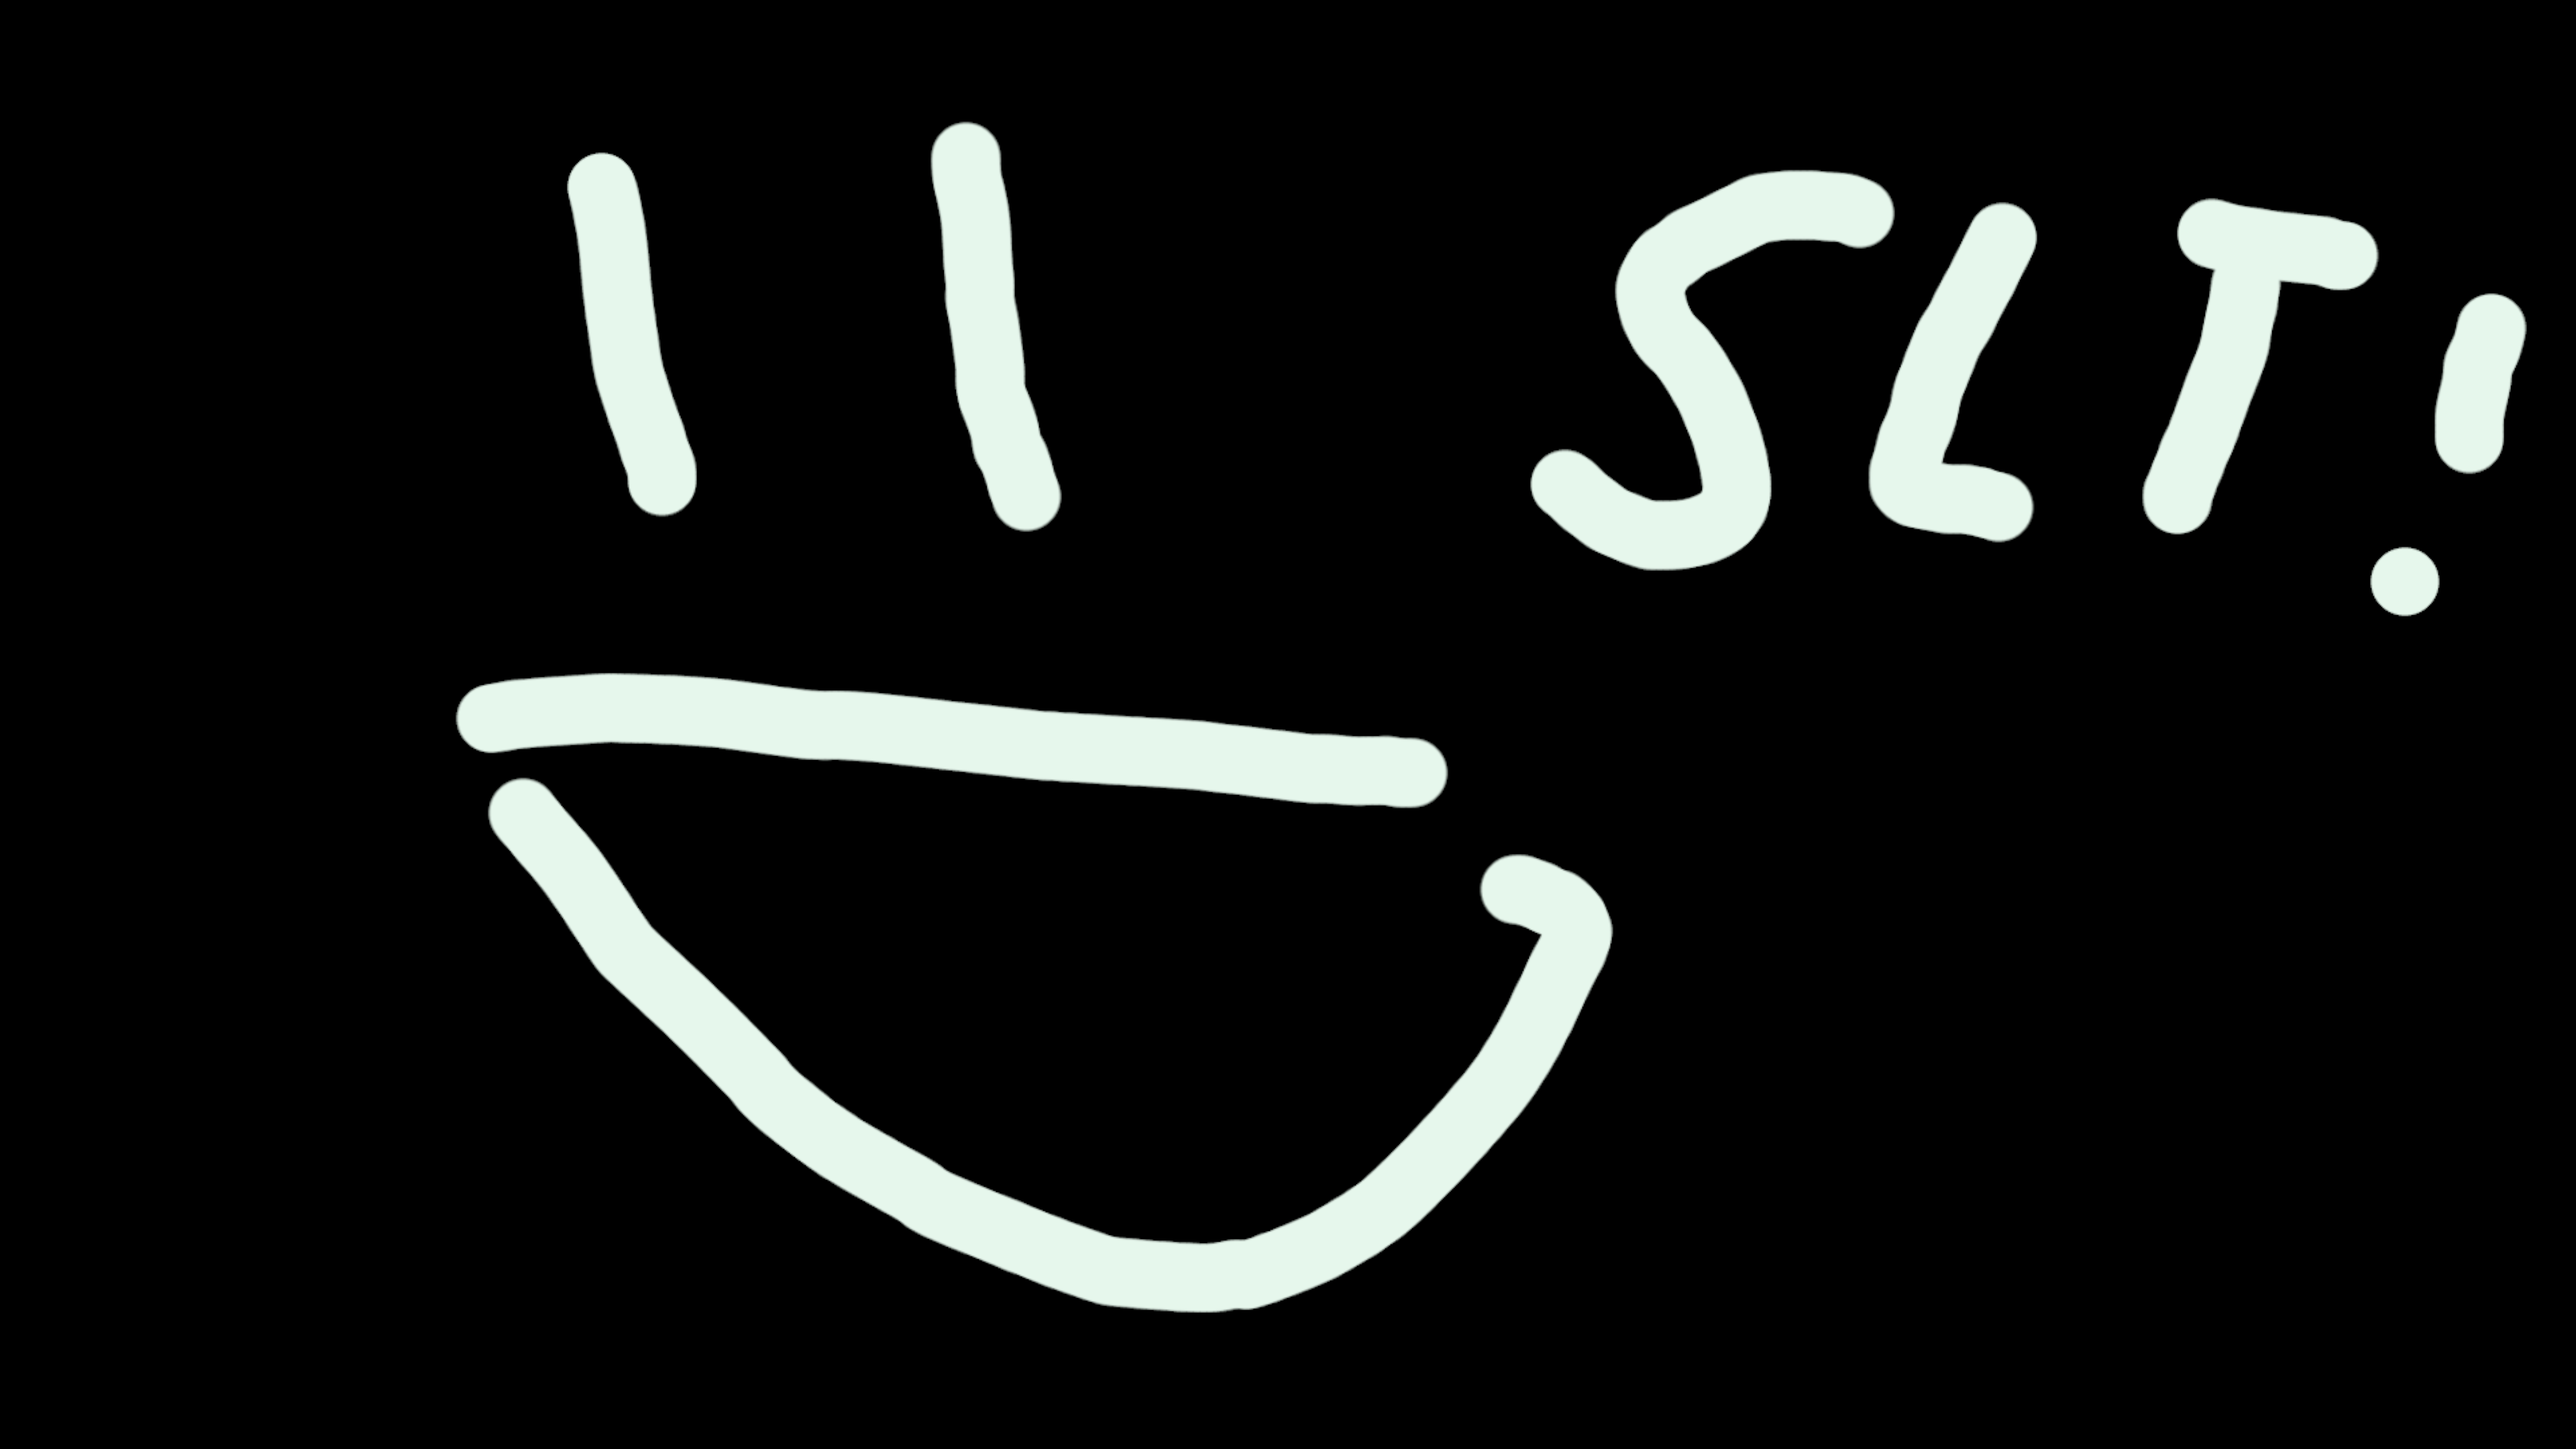
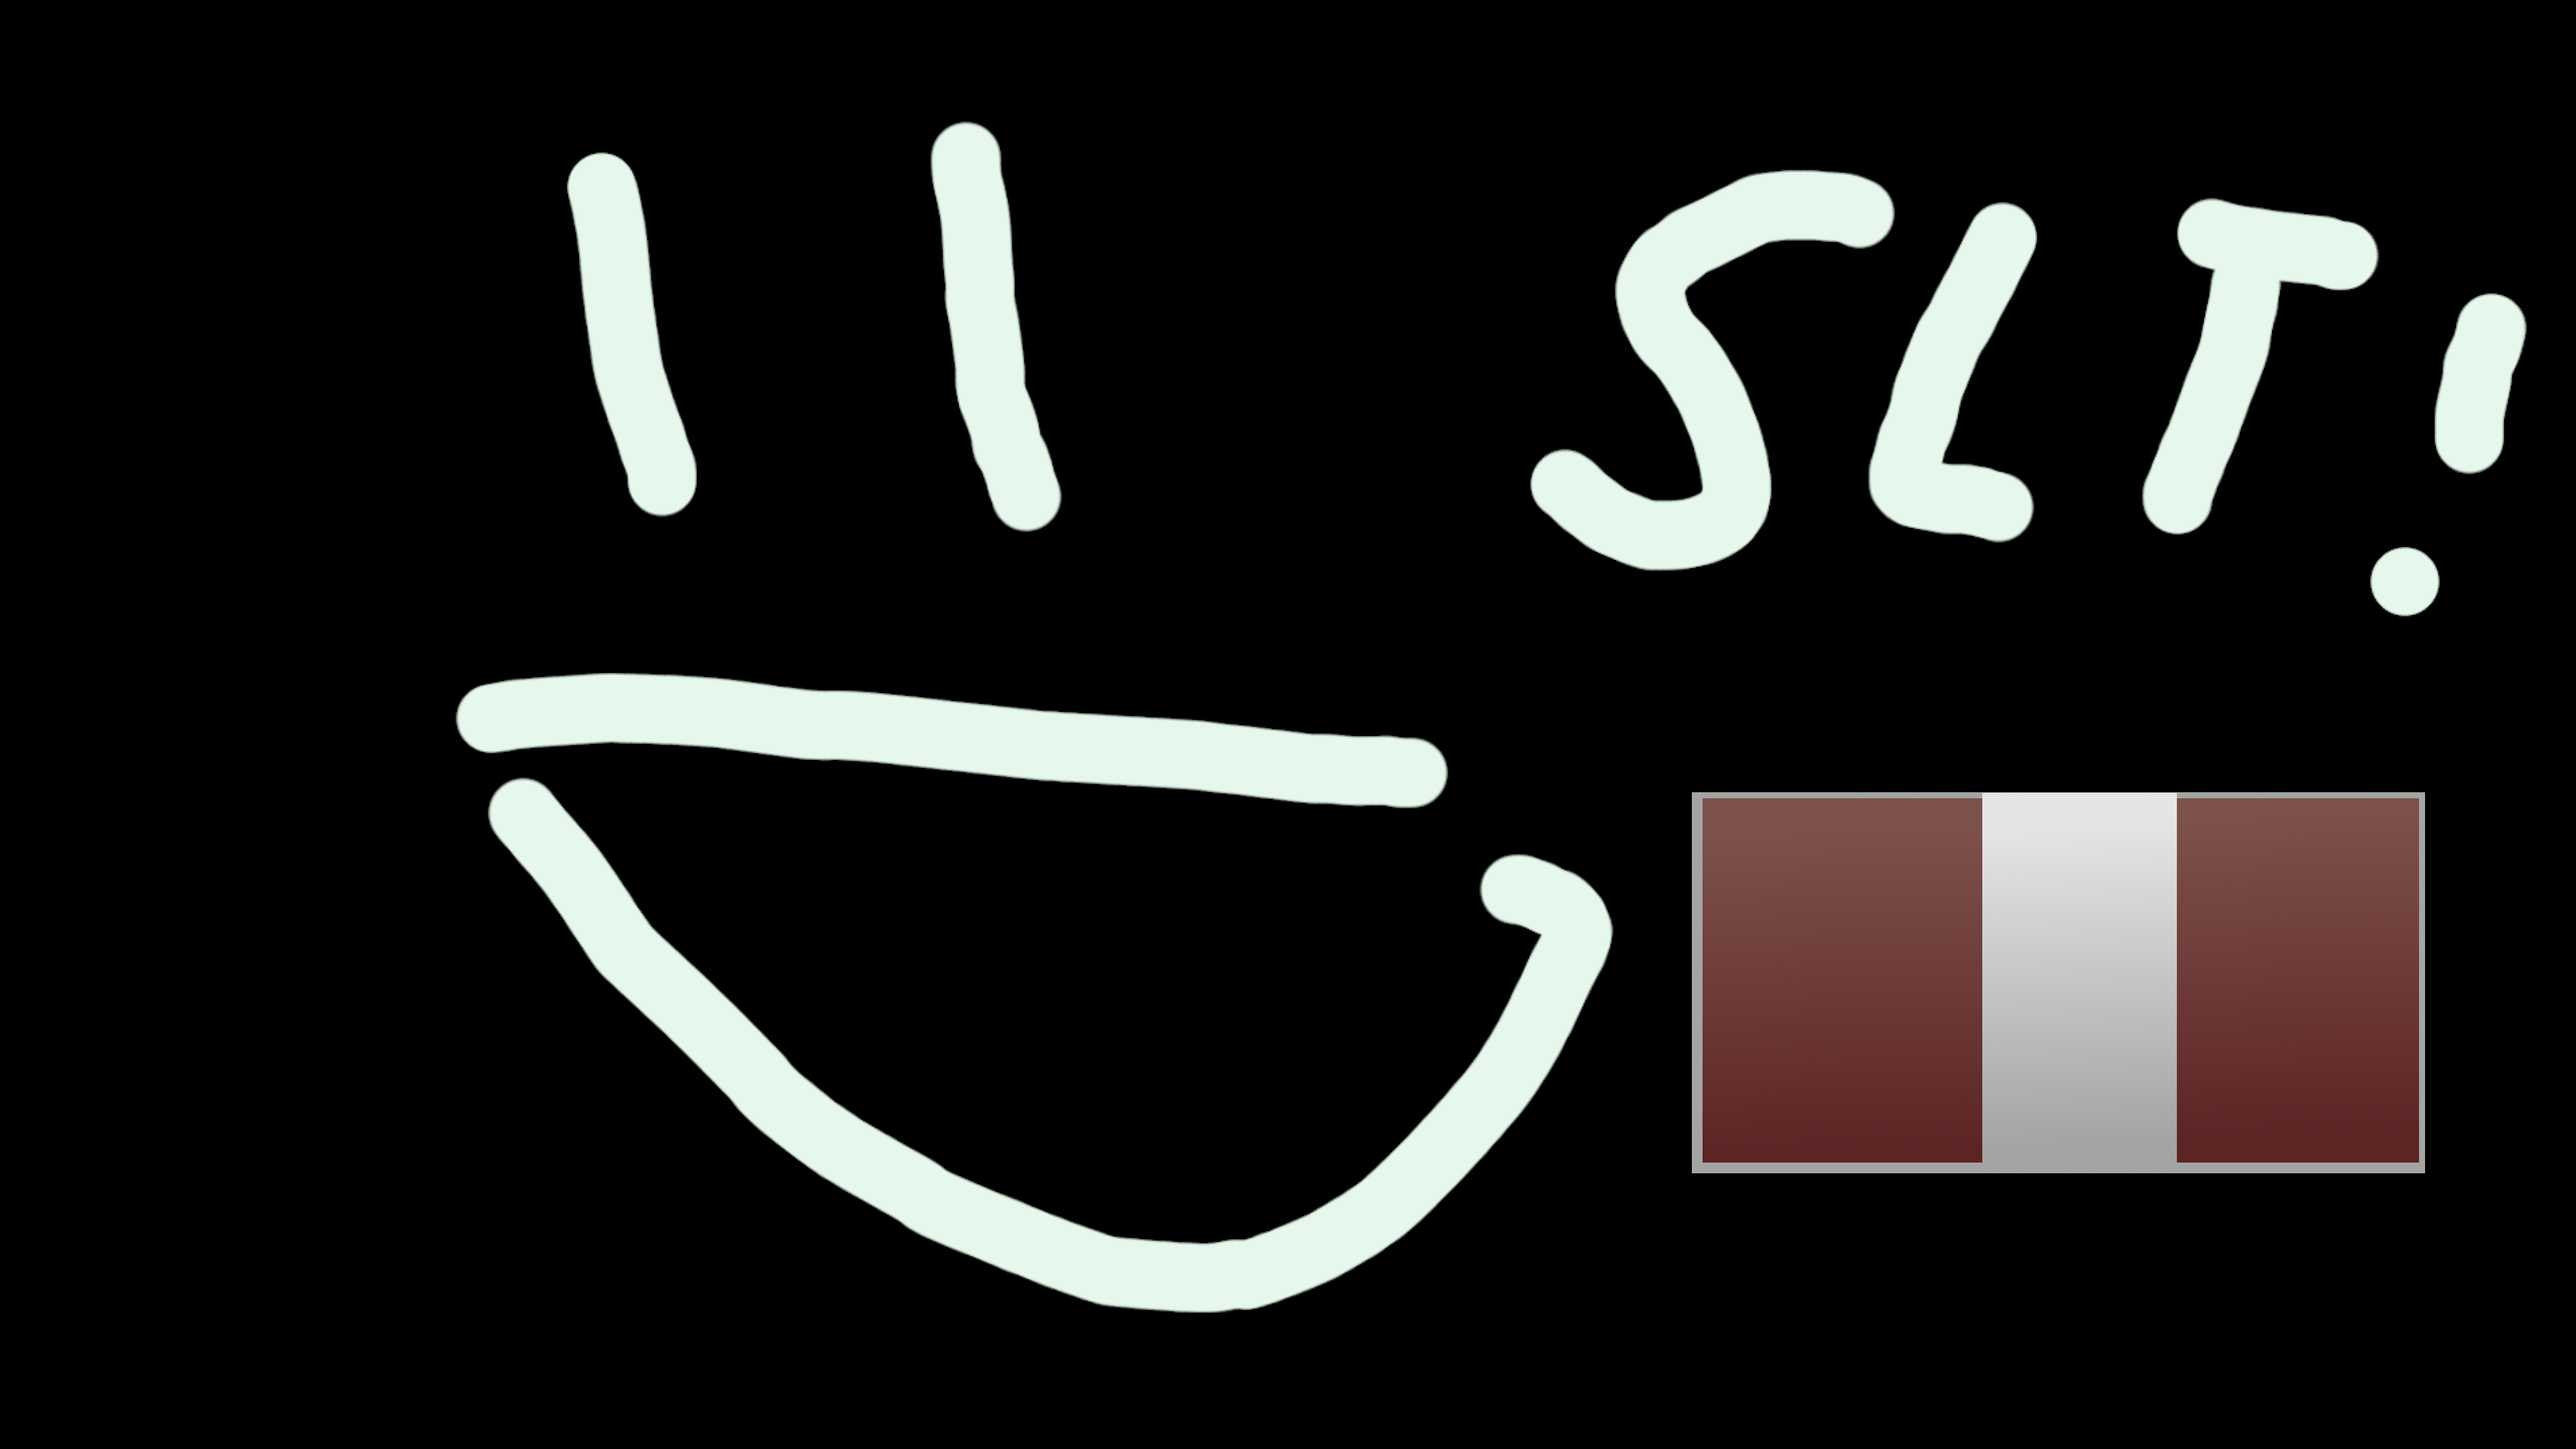
map collision

Changed region(s): [[0.6562, 0.5273, 0.9688, 0.8375]]

diff --git a/src/scene/world/map.c b/src/scene/world/map.c
@@ -6,6 +6,7 @@
 */
 
 #include <stdlib.h>
+#include <math.h>
 #include "my_rpg.h"
 #include "map.h"
 
@@ -13,19 +14,36 @@ map_t *map_create(char *path)
 {
     map_t *map = malloc(sizeof(map_t));
     char *bkgd_path = my_strmerge(path, "background.png");
-    sfTexture *map_texture = NULL;
+    char *mask_path = my_strmerge(path, "mask.png");
 
-    if (!bkgd_path || !(map_texture =
-    sfTexture_createFromFile(bkgd_path, NULL)))
+    if (!map || !bkgd_path || !mask_path)
         return (NULL);
-    map->map_texture = map_texture;
-    map->map_size = sfTexture_getSize(map_texture);
+    map->map_texture = sfTexture_createFromFile(bkgd_path, NULL);
+    map->mask_img = sfImage_createFromFile(mask_path);
+    if (!map->map_texture || !map->mask_img)
+        return (NULL);
+    map->map_size = sfTexture_getSize(map->map_texture);
     free(bkgd_path);
     return (map);
+}
+
+char map_collision(map_t *map, sfIntRect hb)
+{
+    sfImage *mask = map->mask_img;
+
+    for (int y = hb.top; y < hb.top + hb.height; y++) {
+        for (int x = hb.left; x < hb.left + hb.width; x++) {
+            if (sfImage_getPixel(mask, x, y).r == 255)
+                return (1);
+        }
+    }
+
+    return (0);
 }
 
 void map_destroy(map_t *map)
 {
     sfTexture_destroy(map->map_texture);
+    sfImage_destroy(map->mask_img);
     free(map);
 }

diff --git a/src/utils/physics.c b/src/utils/physics.c
@@ -1,0 +1,33 @@
+/*
+** EPITECH PROJECT, 2021
+** my_rpg
+** File description:
+** physics
+*/
+
+#include "my_rpg.h"
+#include "map.h"
+
+void prior_map_collision(sfVector2f *move,
+sfIntRect hb, float speed, map_t *map)
+{
+    sfVector2f normalize = vector_normalize(*move);
+    sfVector2f substract =
+    {normalize.x * speed / 10, normalize.y * speed / 10};
+
+    if (move->x == 0 && move->y == 0)
+        return;
+    hb.left += move->x;
+    hb.top += move->y;
+    for (int i = 0; i < 11; i++) {
+        if (!map_collision(map, hb)) {
+            move->x -= substract.x * i;
+            move->y -= substract.y * i;
+            return;
+        }
+        hb.left -= substract.x;
+        hb.top -= substract.y;
+    }
+    move->x = 0;
+    move->y = 0;
+}

diff --git a/include/elements/entities/buffer.h b/include/elements/entities/buffer.h
@@ -1,0 +1,31 @@
+/*
+** EPITECH PROJECT, 2021
+** my_rpg
+** File description:
+** buffer
+*/
+
+#ifndef BUFFER_H_
+#define BUFFER_H_
+
+#include "elements/entities/entity.h"
+
+typedef struct buffer_s {
+    element_type_t type;
+    sfVector2f pos;
+    float rot;
+    sfIntRect hitbox;
+    sfSprite *sprite;
+    move_element_fct_t move;
+    rotate_element_fct_t rotate;
+    draw_element_fct_t draw;
+    on_click_fct_t on_click;
+    set_infos_element_fct_t set_infos;
+    destroy_element_fct_t destroy;
+    update_entity_fct_t update;
+    sfVector2u size;
+    sfUint8 *pixels;
+} buffer_t;
+
+
+#endif /* !BUFFER_H_ */

diff --git a/src/elements/default_element_fcts.c b/src/elements/default_element_fcts.c
@@ -6,6 +6,7 @@
 */
 
 #include <stdlib.h>
+#include <math.h>
 #include "elements/element.h"
 
 void default_element_move(element_t *element, sfVector2f pos)
@@ -13,8 +14,8 @@ void default_element_move(element_t *element, sfVector2f pos)
     sfVector2f origin = sfSprite_getOrigin(element->sprite);
 
     element->pos = pos;
-    element->hitbox.left = pos.x - origin.x;
-    element->hitbox.top = pos.y - origin.y;
+    element->hitbox.left = ceil(pos.x - origin.x);
+    element->hitbox.top = ceil(pos.y - origin.y);
     sfSprite_setPosition(element->sprite, pos);
 }
 

diff --git a/src/elements/element.c b/src/elements/element.c
@@ -6,6 +6,7 @@
 */
 
 #include <stdlib.h>
+#include <math.h>
 #include "my_rpg.h"
 #include "elements/element.h"
 
@@ -31,8 +32,8 @@ element_type_t type, sfVector2f pos)
 
 void element_set_hitbox(element_t *element, sfFloatRect global_bounds)
 {
-    element->hitbox.width = (int) global_bounds.width;
-    element->hitbox.height = (int) global_bounds.height;
+    element->hitbox.width = ceil(global_bounds.width);
+    element->hitbox.height = ceil(global_bounds.height);
 }
 
 char element_point_hit(element_t *element, sfVector2f pos)

diff --git a/src/elements/entities/player.c b/src/elements/entities/player.c
@@ -41,6 +41,9 @@ void player_update(entity_t *entity, infos_t *infos, float elapsed)
         move.y = sfKeyboard_isKeyPressed(sfKeyZ) ? -speed : speed;
     if (sfKeyboard_isKeyPressed(sfKeyQ) ^ sfKeyboard_isKeyPressed(sfKeyD))
         move.x = sfKeyboard_isKeyPressed(sfKeyQ) ? -speed : speed;
+    prior_map_collision(&move, player->hitbox, speed, world_scene->map);
+    if (move.x == 0 && move.y == 0)
+        return;
     player->move((element_t*) player, (sfVector2f)
     {player->pos.x + move.x, player->pos.y + move.y});
 }

diff --git a/include/map.h b/include/map.h
@@ -8,13 +8,19 @@
 #ifndef MAP_H_
 #define MAP_H_
 
+#include <SFML/Graphics.h>
+
 typedef struct map_s {
     sfTexture *map_texture;
-    sfImage *map_img;
+    sfImage *mask_img;
     sfVector2u map_size;
 } map_t;
 
 map_t *map_create(char *path);
+char map_collision(map_t *map, sfIntRect hb);
 void map_destroy(map_t *map);
+
+void prior_map_collision(sfVector2f *move,
+sfIntRect hb, float speed, map_t *map);
 
 #endif /* !MAP_H_ */

diff --git a/src/utils/math.c b/src/utils/math.c
@@ -1,0 +1,19 @@
+/*
+** EPITECH PROJECT, 2021
+** my_rpg
+** File description:
+** maths utils
+*/
+
+#include <math.h>
+#include <SFML/System/Vector2.h>
+
+sfVector2f vector_normalize(sfVector2f vec)
+{
+    float length = sqrt((vec.x * vec.x) + (vec.y * vec.y));
+
+    if (length != 0)
+        return ((sfVector2f) {vec.x / length, vec.y / length});
+    else
+        return (vec);
+}

diff --git a/include/my_rpg.h b/include/my_rpg.h
@@ -66,4 +66,6 @@ void update_hover(infos_t *infos);
 void sprite_set_origin_center(sfSprite *sprite);
 void text_set_origin_center(sfText *text);
 
+sfVector2f vector_normalize(sfVector2f vec);
+
 #endif /* !MY_DEFENDER_H_ */
